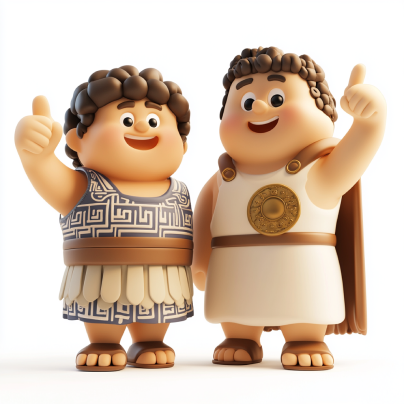
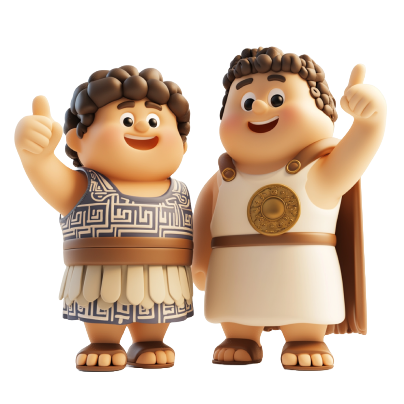
RN-50 fixed the onboardingView to display correctly on any device

Changed region(s): [[0.297, 0.8911, 0.7129, 0.9208], [0.0891, 0.8911, 0.2079, 0.9208], [0.297, 0.802, 0.3267, 0.8317]]

diff --git a/src/views/OnboardingView.tsx b/src/views/OnboardingView.tsx
@@ -1,5 +1,5 @@
 import { useNavigation } from "@react-navigation/native";
-import { Text, StyleSheet, Image } from "react-native";
+import { Text, StyleSheet, Image, Dimensions, View } from "react-native";
 
 import { AuthStackNavigationProp } from "../navigators/AuthStackNavigator";
 import { useTranslation } from "../contexts/TranslationContext";
@@ -11,14 +11,19 @@ import { IconLogo } from "../components/IconLogo/IconLogo";
 export function OnboardingView() {
   const navigation = useNavigation<AuthStackNavigationProp>();
   const { t } = useTranslation();
+  const { height } = Dimensions.get("window");
+
   return (
     <SafeAreaView style={styles.container}>
+
+      <View style={styles.logoContainer}>
       <IconLogo style={styles.iconLogo} />
-      <Image
-        source={require("../../assets/images/Onboarding.png")}
-        style={styles.logo}
-      />
-      <Text style={styles.title}>{t("welcome")}</Text>
+        <Image
+          source={require("../../assets/images/Onboarding.png")}
+          style={[styles.logo, {  height: height * 0.4 }]}
+        />
+        <Text style={styles.title}>{t("welcome")}</Text>
+      </View>
       <Button
         label={t("get_started")}
         onPress={() => navigation.navigate(AuthRoutes.Auth)}
@@ -33,6 +38,8 @@ const styles = StyleSheet.create({
   container: {
     flex: 1,
     alignItems: "center",
+    justifyContent: "space-between",
+    paddingHorizontal: 20,
   },
   title: {
     fontFamily: "SF-Pro-Rounded-Heavy",
@@ -41,9 +48,13 @@ const styles = StyleSheet.create({
     width: 300,
     letterSpacing: -3,
   },
+  logoContainer: {
+    flex: 1,
+    alignItems: "center",
+    justifyContent: "center",
+  },
   logo: {
-    width: 380,
-    height: 380,
+    resizeMode: "contain",
   },
   iconLogo: {
     marginTop: 36,
